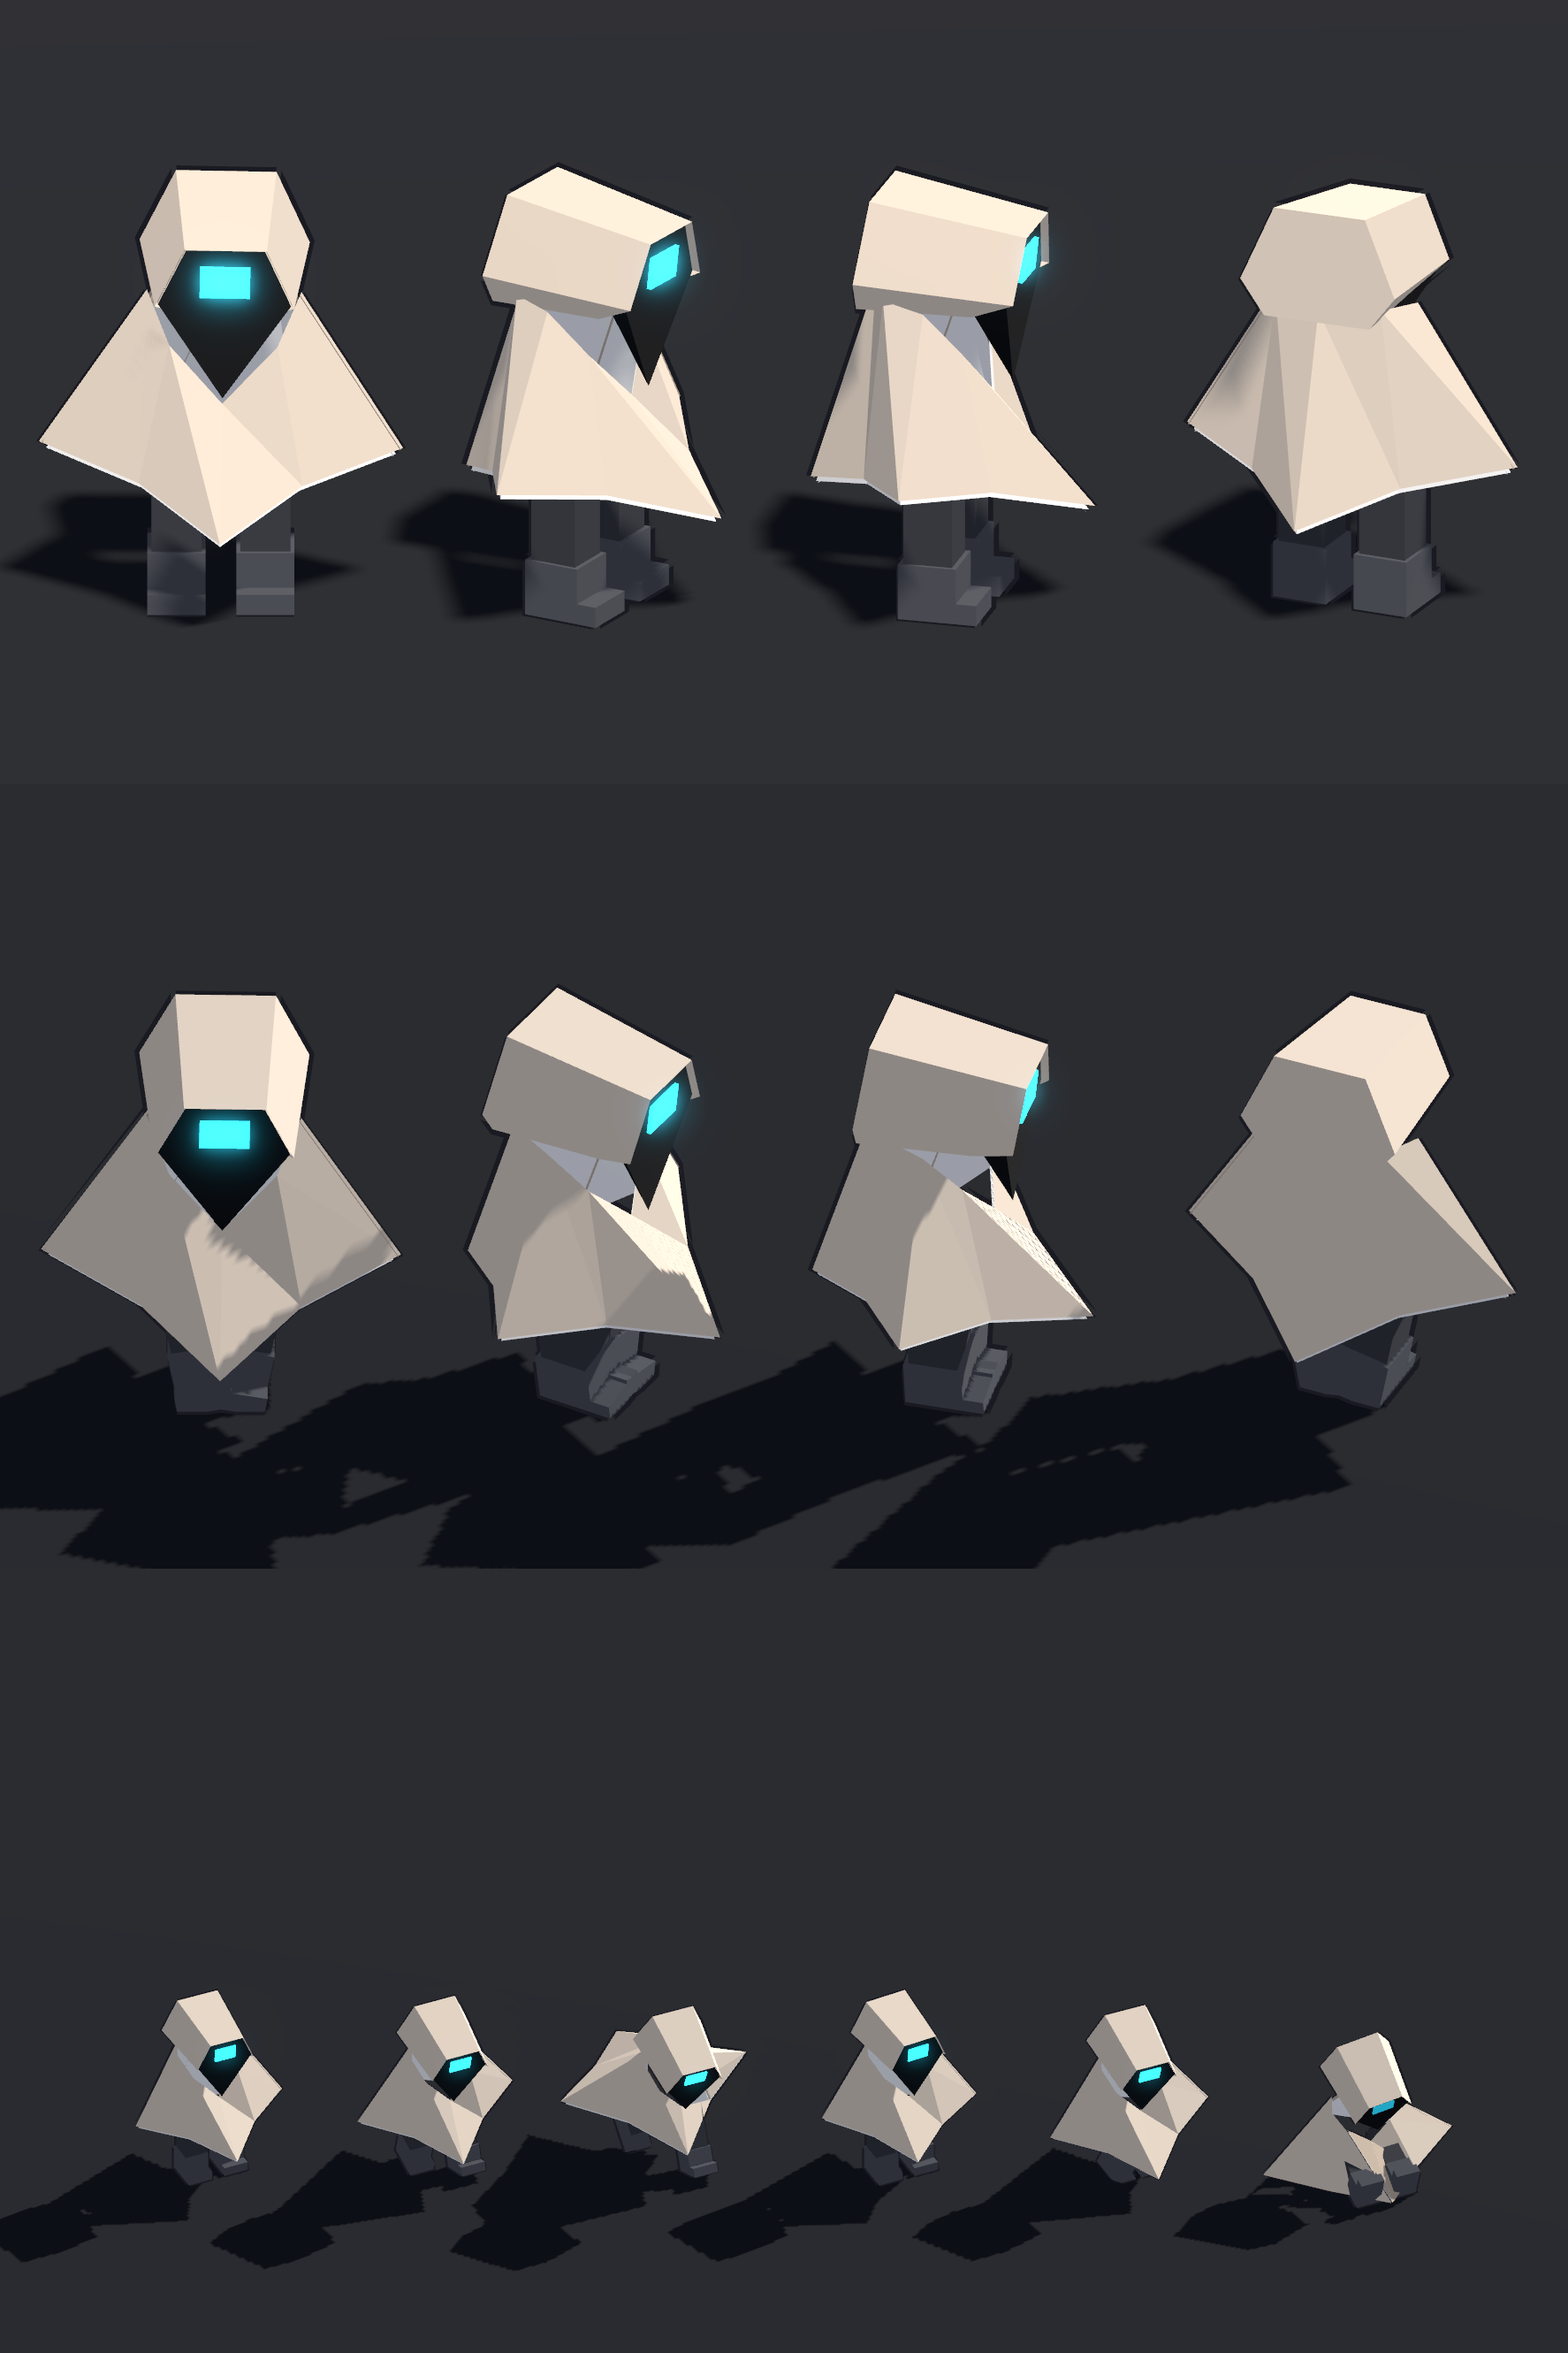
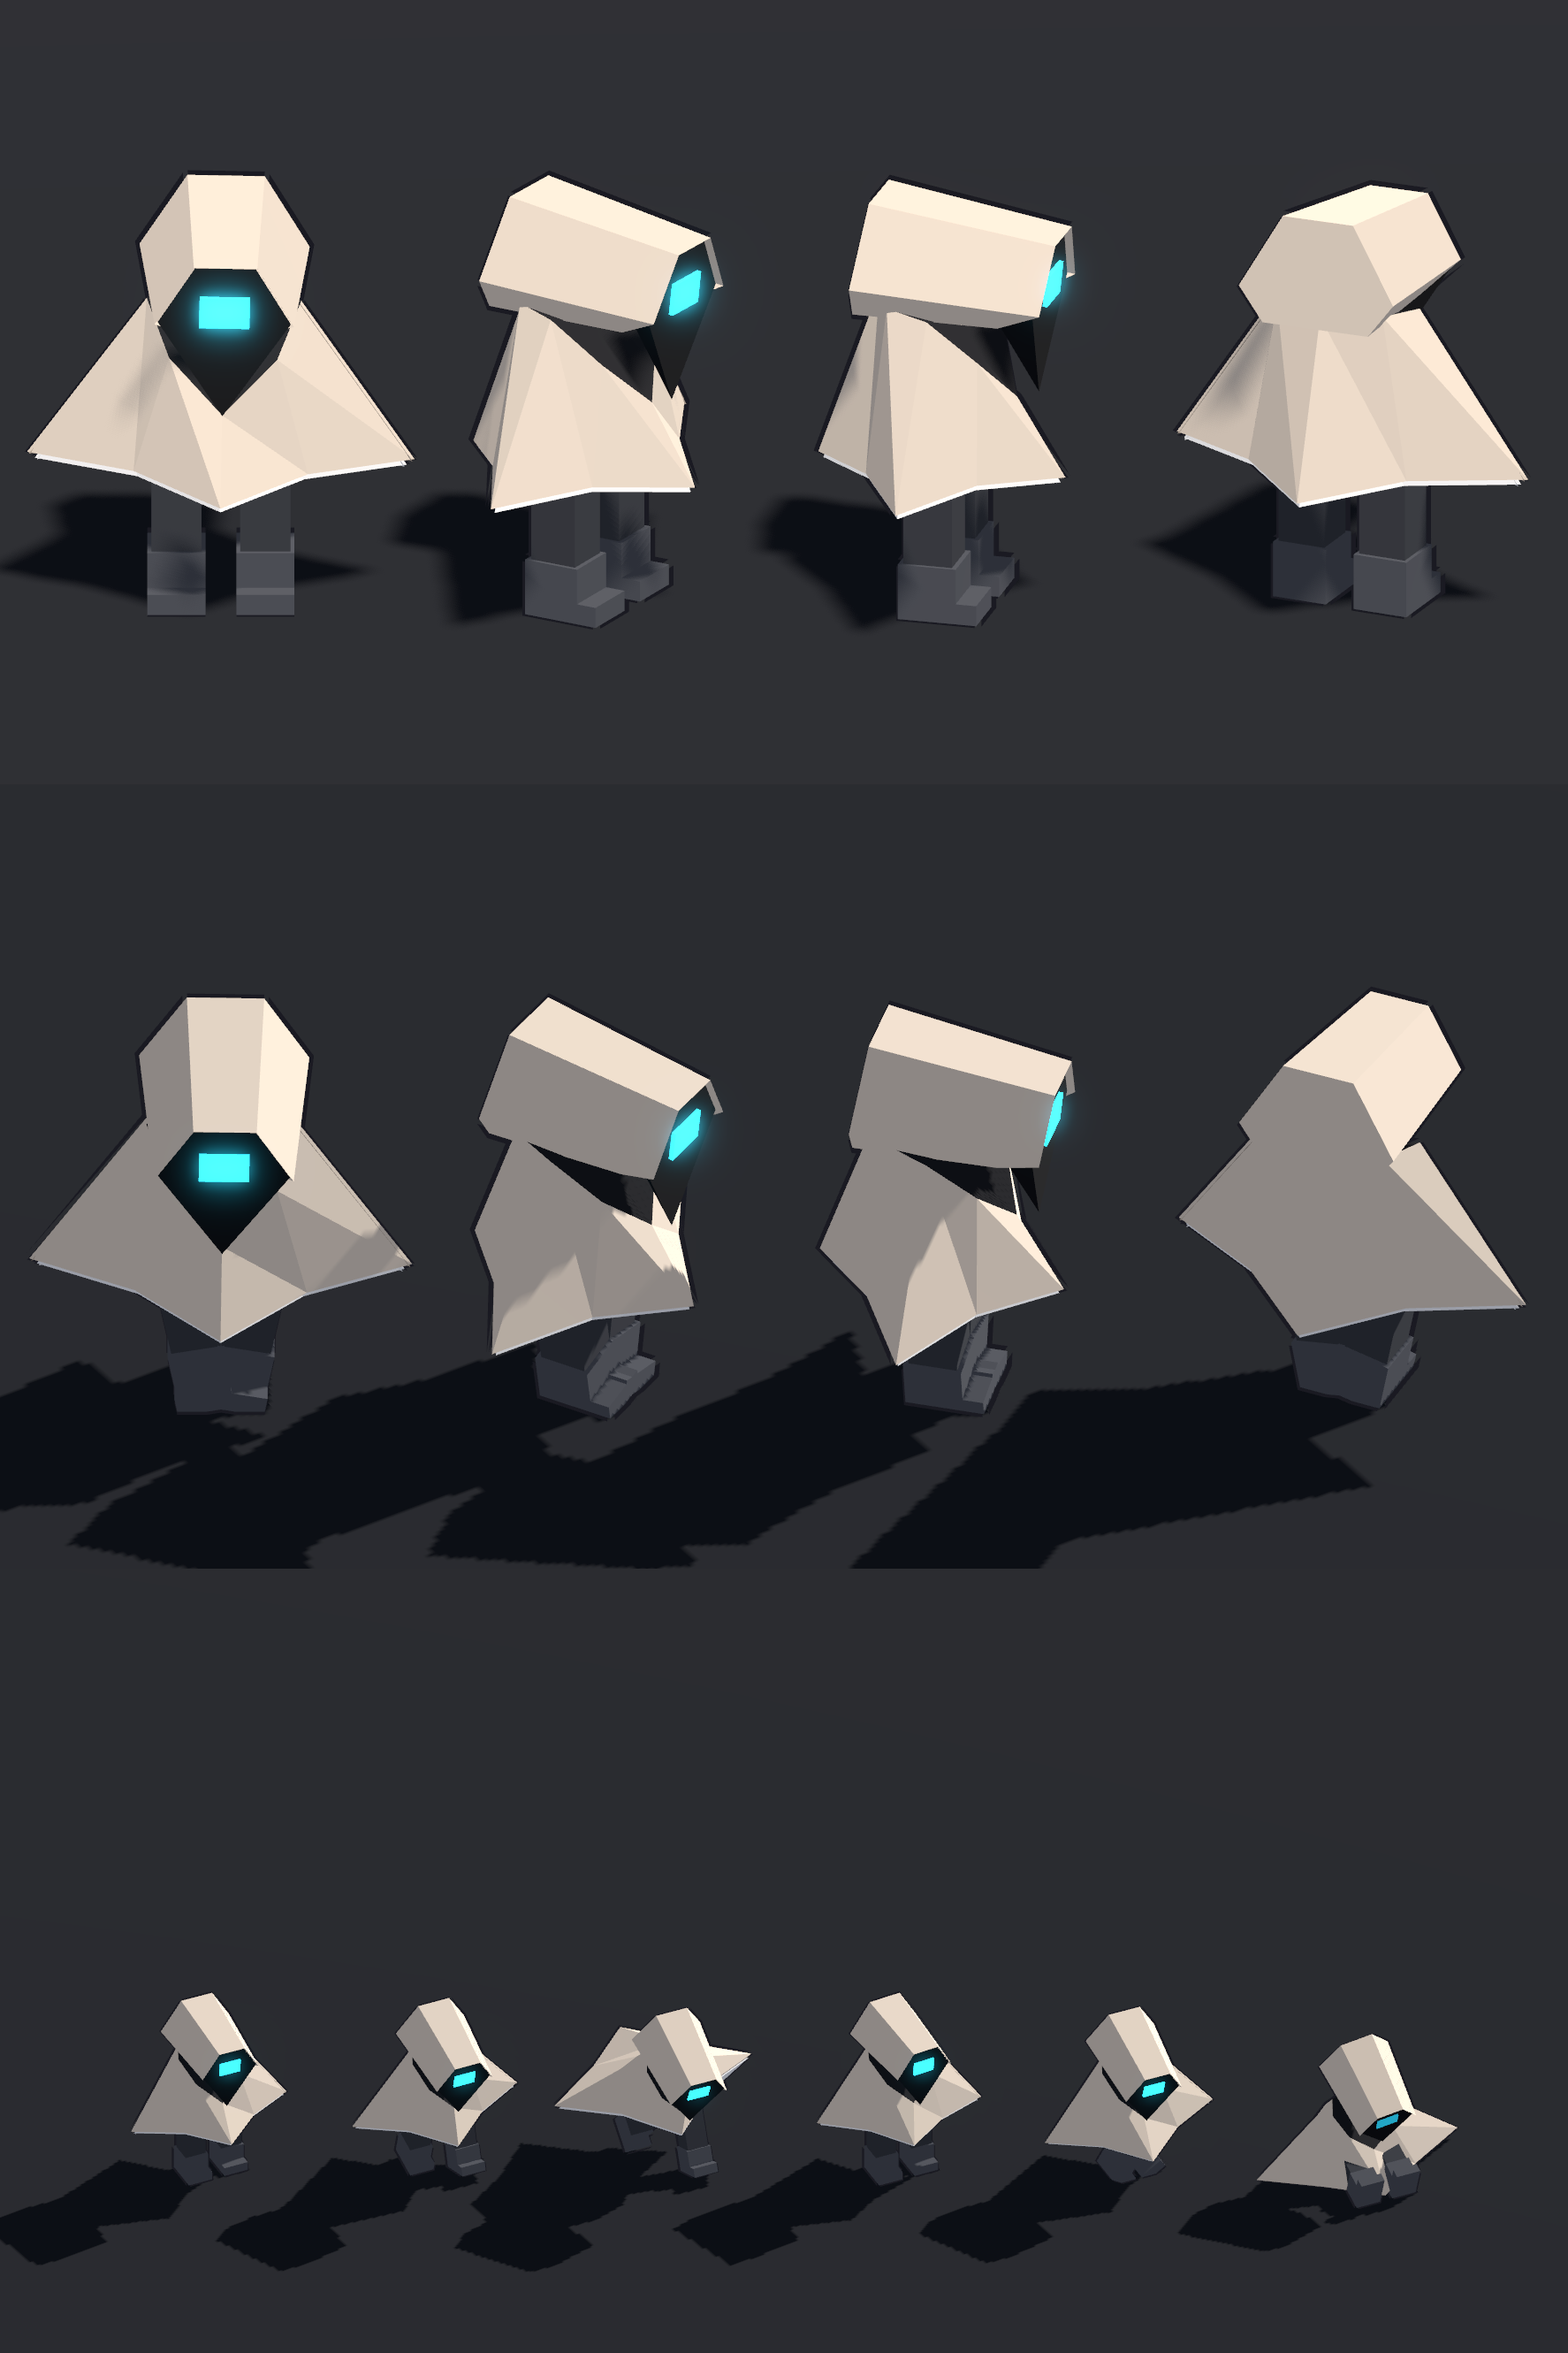
v0.2.0 G3: the poncho hangs under the face, legs show, longer hood, no neck sliver
The front corner pulls in under the chin and the side corners flare wider and
lower; the hem rises so the V ends about knee height; the hood is longer,
sits lower and further forward with a narrower top; a dark collar hides the
poncho's lit inside at the neck; the visor drops to the face's centre height.

Claude-Session: https://claude.ai/code/session_01Ybi1y9EcEtDzJ8CFycqiNq

diff --git a/docs/roadmap/v0.2.0/evidence/CHARACTER.md b/docs/roadmap/v0.2.0/evidence/CHARACTER.md
@@ -1,4 +1,4 @@
-# The player's hooded wanderer (v0.2.0 G / G2, owner requests 2026-10-07)
+# The player's hooded wanderer (v0.2.0 G / G2 / G3, owner requests 2026-10-07)
 
 **What this proves:** what `PlayerAvatar` (`src/presentation/world_view/player_avatar.gd`) looks like next to the
 owner's detailed character sheet ([`docs/art/main-character-sheet.png`](../../../art/main-character-sheet.png), the
@@ -6,11 +6,74 @@ primary reference), from a sheet-like camera and from the real iso camera (`IsoR
 how it moves in the real game when it's driven by key and mouse events.
 **What it doesn't prove:** whether it looks right or feels good to the owner. Feel and taste are `OWNER ONLY`.
 
-- **Build:** the renders and the suite ran on a working tree based on `dbd4f7d` with this round's changes
-  uncommitted; the committed code and shot script are the ones that ran. Only this doc and the copied PNGs were
-  written after the runs.
+- **Build:** the G3 renders and suite ran on a working tree based on `5608e78` with the G3 changes uncommitted.
+  The committed code and shot script are the ones that ran. Only this doc and the copied PNGs were written after
+  the runs. (G2 ran on `dbd4f7d` the same way.)
 - **Machine:** a cloud container, software Vulkan (llvmpipe), under xvfb. This is not the owner's hardware. On this
   renderer about 4 physics ticks run per rendered frame.
+
+## Round 4 (G3): the coordinator's five-point list, 2026-10-07
+
+The PNGs in this folder are from this round. The G2 section below describes the previous state. Its numbers for
+the hem, the hood and the visor height are superseded by the ones here.
+
+Changes:
+1. **Poncho in the side views:** the front corner is pulled in (reach 0.40 → 0.32 m, against the back corner's
+   0.34 m), so it hangs under the face instead of jutting forward. The side corners flare wider and lower (reach
+   0.47 → 0.50 m, height 0.42 → 0.39 m).
+2. **Hem levels and legs:** the front corner is raised to 0.36 m and the back to 0.37 m. It's still the lowest hem
+   point, which the unit test checks. In the front view the V tip now ends about knee height, and the legs and
+   boots below it are clearly visible.
+3. **Hood:** longer front to back (0.42 → 0.50 m). It sits 3 cm further forward and 2 cm lower (origin at
+   (0.05, 0.91) m). The face plane moved forward with it, and the neck ring's V-neck notch moved forward (x 0.13 →
+   0.19 m) to stay under the chin.
+4. **Hood top:** narrower (half-width 0.13 → 0.10 m), so the hood tapers more toward the top.
+5. **Neck sliver:** a dark collar (`#1E1F24`, both sides) now spans the poncho's neck ring, and the underside darkens
+   to that colour at the neck. Looking into the V-neck from a 3/4 view now shows shadow, not the poncho's lit
+   inside. The light sliver is gone from both rows A and B, as far as I can see in the renders.
+6. **Visor:** lowered to the face's centre height (hood-local y 0.035 → 0.0), so there's black above it as on the
+   sheet. It's still in the face's upper half, which the test checks.
+
+The figure is now about 1.09 m tall. The poncho's span is 1.00 m, about 2.3× the hood's width; the test allows
+1.8–2.4×.
+
+### Per-view state after G3 ([`character_sheet_compare.png`](character_sheet_compare.png))
+
+- **Front:**
+  - Matches: the shield hood with a narrow flat top, the black shield face with the visor centred and black above
+    it, the V-neck, the wide side corners, the front V ending about knee height, and two separate legs with boots
+    clearly visible.
+  - Differs: my hood's sides flare less than the sheet's, so less of the grey side wall shows beside the face. My
+    poncho's lower outline under the side corners is shorter.
+- **Right-front:**
+  - Matches: the forward box hood with the face and visor on its right, and the poncho as a pyramid with the far
+    corner sweeping out low to the left. The front of the poncho no longer juts out.
+  - Differs: the sheet's hood still looks a bit bigger relative to the poncho.
+- **Right:**
+  - Matches: a longer hood box over the poncho with the face at its front edge and the dark chin below. The poncho
+    is a roughly symmetric pyramid, with the near side corner as the lowest point in the middle.
+  - Differs: the sheet's poncho is a little wider front to back, with its front corner reaching just past the face.
+    Mine ends about under the face.
+- **Back-right:**
+  - Matches: the box hood with a narrower top on a ridged pyramid, with the legs and boots visible.
+  - Differs: the sheet shows more of the hood's top.
+- **In-game camera (row B):**
+  - The hood's top face still reads large. It's narrower now but longer, so its area is about the same.
+  - From the front, the legs now show below the V.
+  - The faces turned away from the game's light stay flat grey.
+  - The hood's shadow on the poncho is still jagged on this renderer.
+- **Real-game frames ([`character_motion.png`](character_motion.png)):** the same reading as G2. A cream hooded
+  figure with a dark face and cyan visor; the poncho trails on the walk, streams back on the dash and settles when
+  it stops. The legs show more between the hem and the ring.
+
+Suite for G3: `bash scripts/verify.sh` exited 0, and the summary reported `Tests 210`, `Passing Tests 210`,
+`Asserts 54619`. Its last line was `check_gut_log: ok (210 passing, minimum 210)`.
+
+Lint for G3: `gdformat --check src scripts tests` printed "176 files would be left unchanged". `gdlint src scripts
+tests` printed "Success: no problems found".
+
+Both render commands below were re-run for G3 and printed the same three lines as shown, each followed by
+`exit=0`.
 
 ## Round 3 (G2): rebuilt to the character sheet
 
